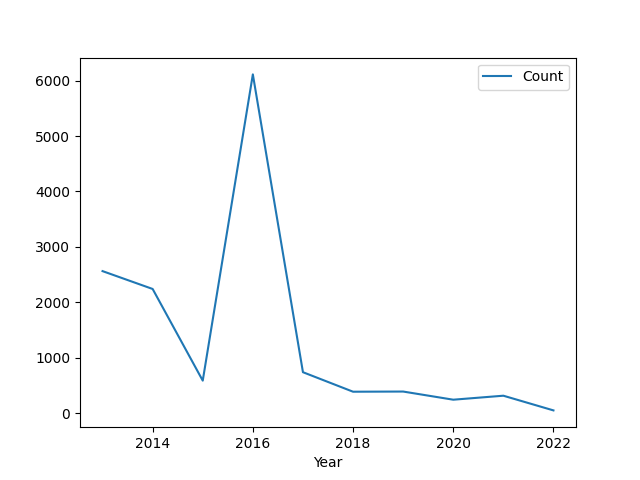
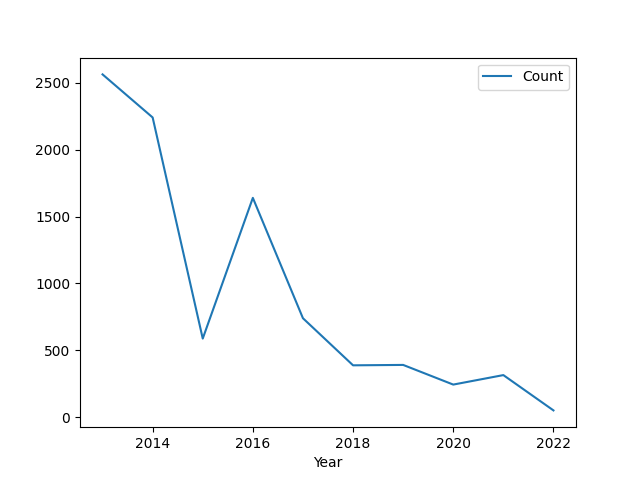
26032023

diff --git a/scripts/plots-veris-annual-count-distribution.py b/scripts/plots-veris-annual-count-distribution.py
@@ -5,7 +5,6 @@ import pandas as pd
 
 
 def process_veris_information():
-
     # Creat a list to hold entries for later count
     veris_count = []
 
@@ -16,12 +15,11 @@ def process_veris_information():
     toplevel_path = Path(__file__).parents[1]
 
     # Concat paths for both the submitted and validated folders
-    veris_submitted_data = toplevel_path / "veris_data/data/json/submitted"
-    veris_validated_data = toplevel_path / "veris_data/data/json/validated"
+    # veris_submitted_data = toplevel_path / "veris-data/data/json/submitted"
+    veris_validated_data = toplevel_path / "veris-data/VCDB/data/json/validated"
 
     # Grab the data from the validated reports
     for p in veris_validated_data.rglob("*.json"):
-
         # Load the data from the json file
         json_file = veris_validated_data / p.name
 
@@ -34,23 +32,23 @@ def process_veris_information():
             print(p.name)
 
     # Grab the data from the submitted reports
-    for p in veris_submitted_data.rglob("*.json"):
+    # for p in veris_submitted_data.rglob("*.json"):
+    #    # Load the data from the json file
+    #    json_file = veris_submitted_data / p.name
 
-        # Load the data from the json file
-        json_file = veris_submitted_data / p.name
+    #    try:
+    #        data = json.loads(json_file.read_bytes())
+    #        veris_count.append(int(data["plus"]["created"][0:4]))
+    #        veris_count.sort()
 
-        try:
-            data = json.loads(json_file.read_bytes())
-            veris_count.append(int(data["plus"]["created"][0:4]))
-            veris_count.sort()
+    #    except:
+    #        print(p.name)
 
-        except:
-            print(p.name)
-
-    df = pd.DataFrame(veris_count, columns=["Year"])
+    # df = pd.DataFrame(veris_count, columns=["Year"])
 
     # The count of the entries per year. This is a count so wont
     # have an index on it by default hence the reset index
+    df = pd.DataFrame(veris_count, columns=["Year"])
     df = df.groupby(["Year"])["Year"].count().reset_index(name="Count")
 
     print(df)

diff --git a/scripts/plots-veris-national-distribution.py b/scripts/plots-veris-national-distribution.py
@@ -5,7 +5,6 @@ import pandas as pd
 
 
 def process_veris_information():
-
     # Creat a list to hold entries for later count
     veris_geo_count = []
 
@@ -16,12 +15,11 @@ def process_veris_information():
     toplevel_path = Path(__file__).parents[1]
 
     # Concat paths for both the submitted and validated folders
-    veris_submitted_data = toplevel_path / "veris_data/data/json/submitted"
-    veris_validated_data = toplevel_path / "veris_data/data/json/validated"
+    # veris_submitted_data = toplevel_path / "veris_data/data/json/submitted"
+    veris_validated_data = toplevel_path / "veris-data/VCDB/data/json/validated"
 
     # Grab the data from the validated reports
     for p in veris_validated_data.rglob("*.json"):
-
         # Load the data from the json file
         json_file = veris_validated_data / p.name
 
@@ -35,19 +33,19 @@ def process_veris_information():
             print(p.name)
 
     # Grab the data from the submitted reports
-    for p in veris_submitted_data.rglob("*.json"):
+    # for p in veris_submitted_data.rglob("*.json"):
 
-        # Load the data from the json file
-        json_file = veris_submitted_data / p.name
+    # Load the data from the json file
+    # json_file = veris_submitted_data / p.name
 
-        try:
-            data = json.loads(json_file.read_bytes())
-            for x in data["victim"]["country"]:
-                print(x)
-                veris_geo_count.append(x)
+    # try:
+    #    data = json.loads(json_file.read_bytes())
+    #    for x in data["victim"]["country"]:
+    #        print(x)
+    #        veris_geo_count.append(x)
 
-        except:
-            print(p.name)
+    # except:
+    #    print(p.name)
 
     df = pd.DataFrame(veris_geo_count, columns=["Location"])
 
